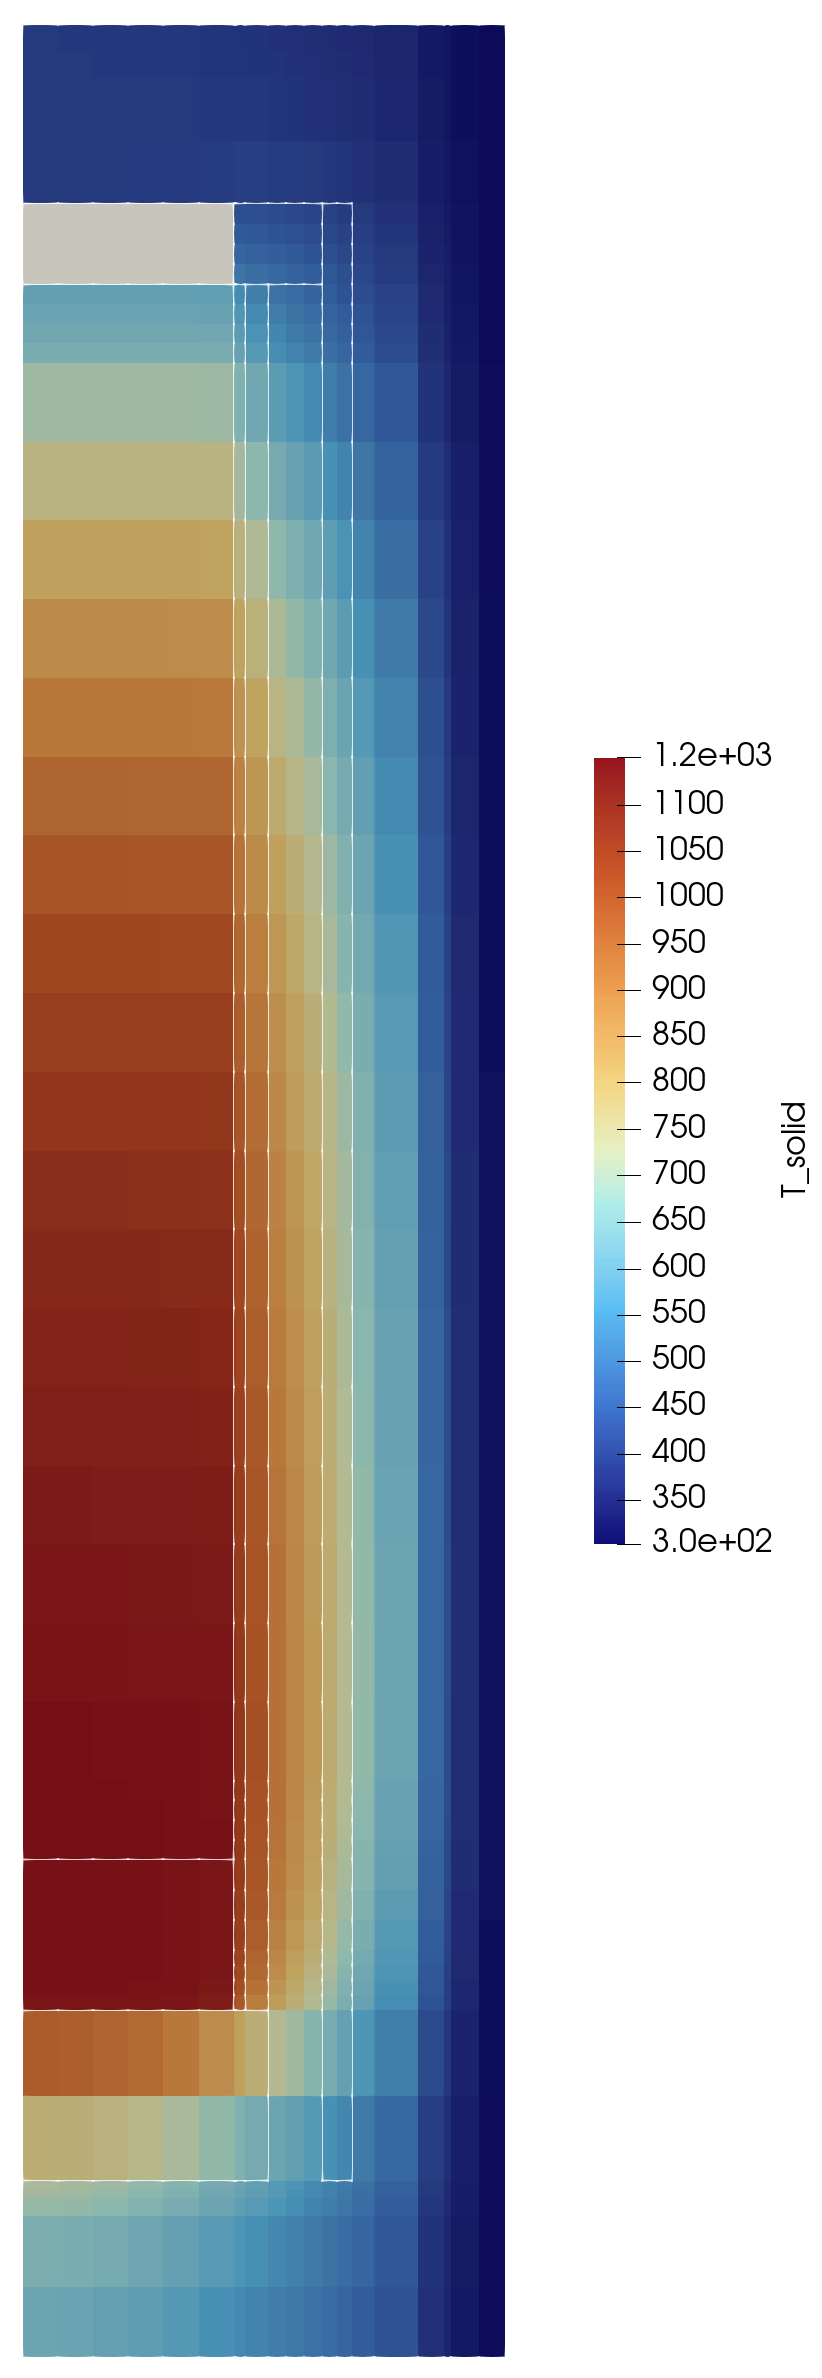
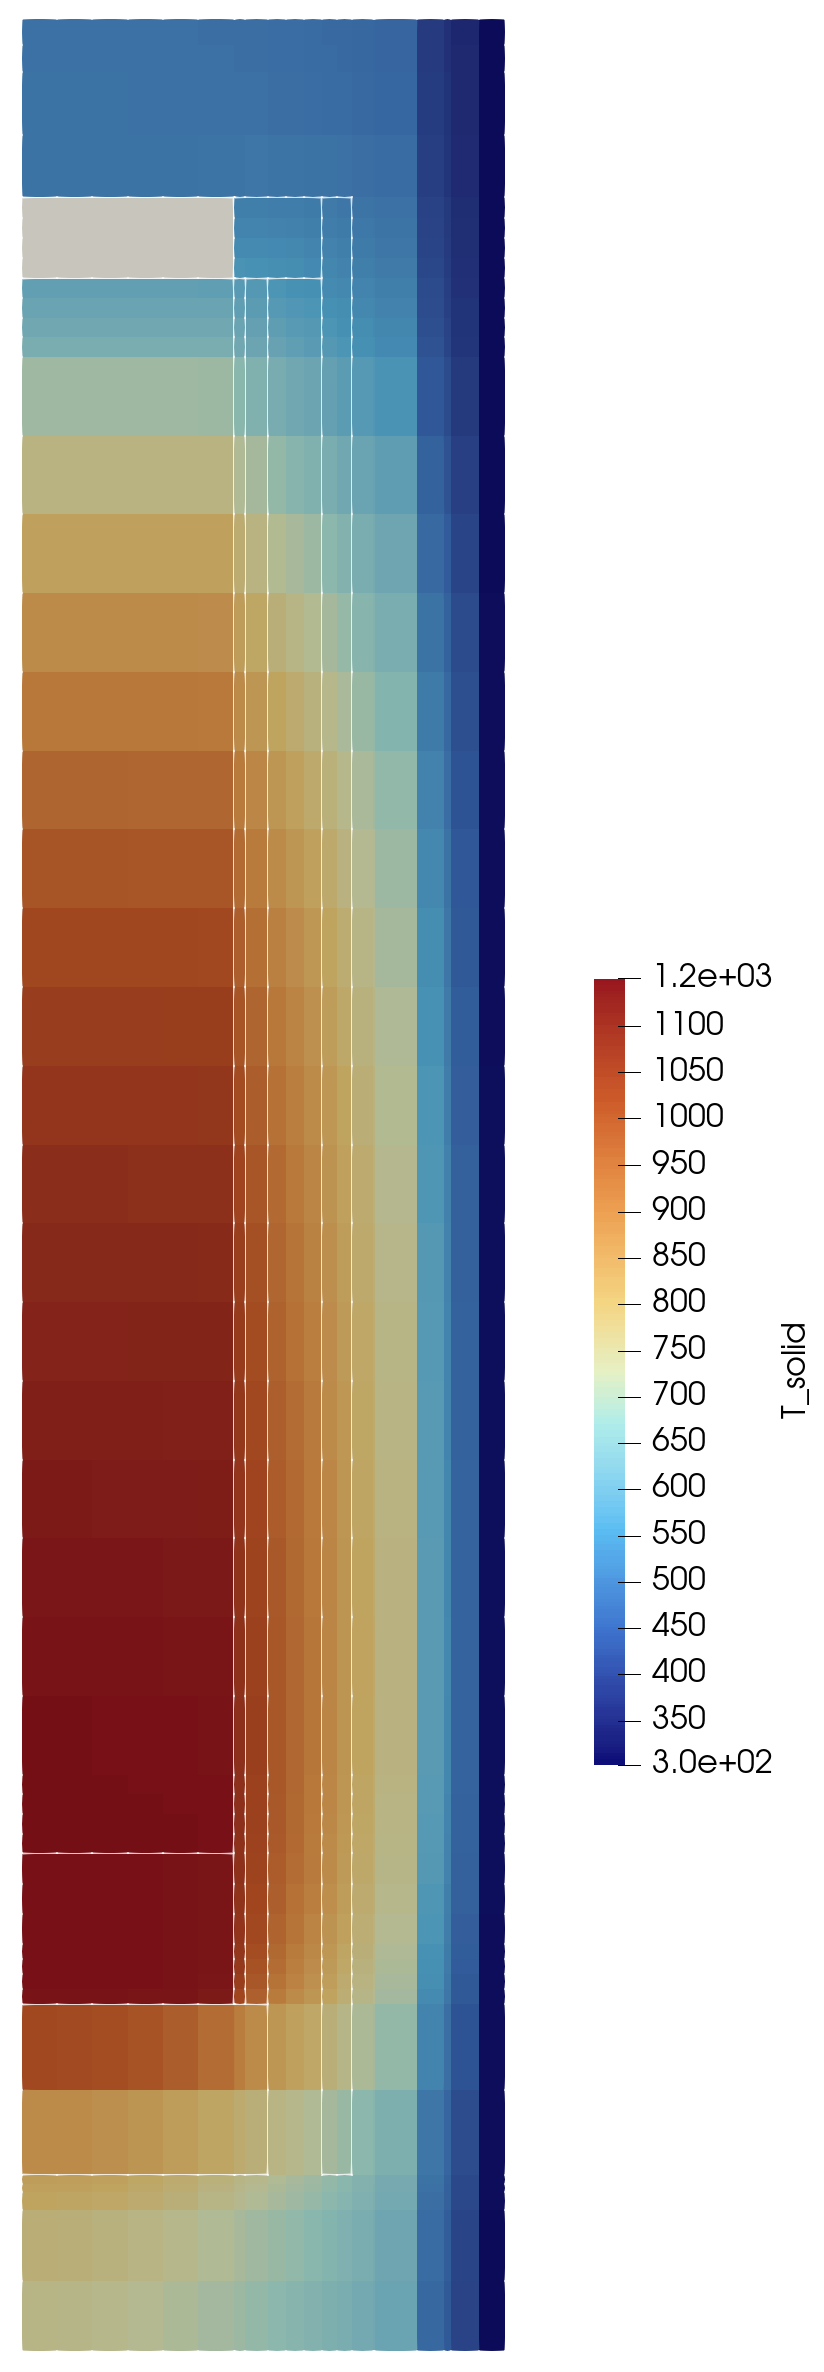
Fix issue in solid T step 8

diff --git a/doc/content/htgr/generic-pbr-tutorial-segregated/step8.md b/doc/content/htgr/generic-pbr-tutorial-segregated/step8.md
@@ -50,7 +50,15 @@ The effective thermal conductivities are defined using `FunctorGapHeatTransferEf
 
 !listing htgr/generic-pbr-tutorial-segregated/step8.i start=effective_thermal_conductivity_barrel_gap end=kappa_f_pebble_bed
 
-In this object:
+The SIMPLE solid-energy solve uses the radial component of this effective
+conductivity. The component is extracted into `effective_thermal_conductivity_x`
+and used as the scalar diffusion coefficient:
+
+!listing htgr/generic-pbr-tutorial-segregated/step8.i block=assign_effective_thermal_conductivity_x
+
+!listing htgr/generic-pbr-tutorial-segregated/step8.i block=solid_energy_diffusion
+
+In each gap object:
 
 - `gap_direction` is the coordinate direction pointing through the gap (i.e., connecting the two faces delimiting the gap),
 - `gap_conductivity_function` is the molecular thermal conductivity of the gas in the gap as a function of temperature,